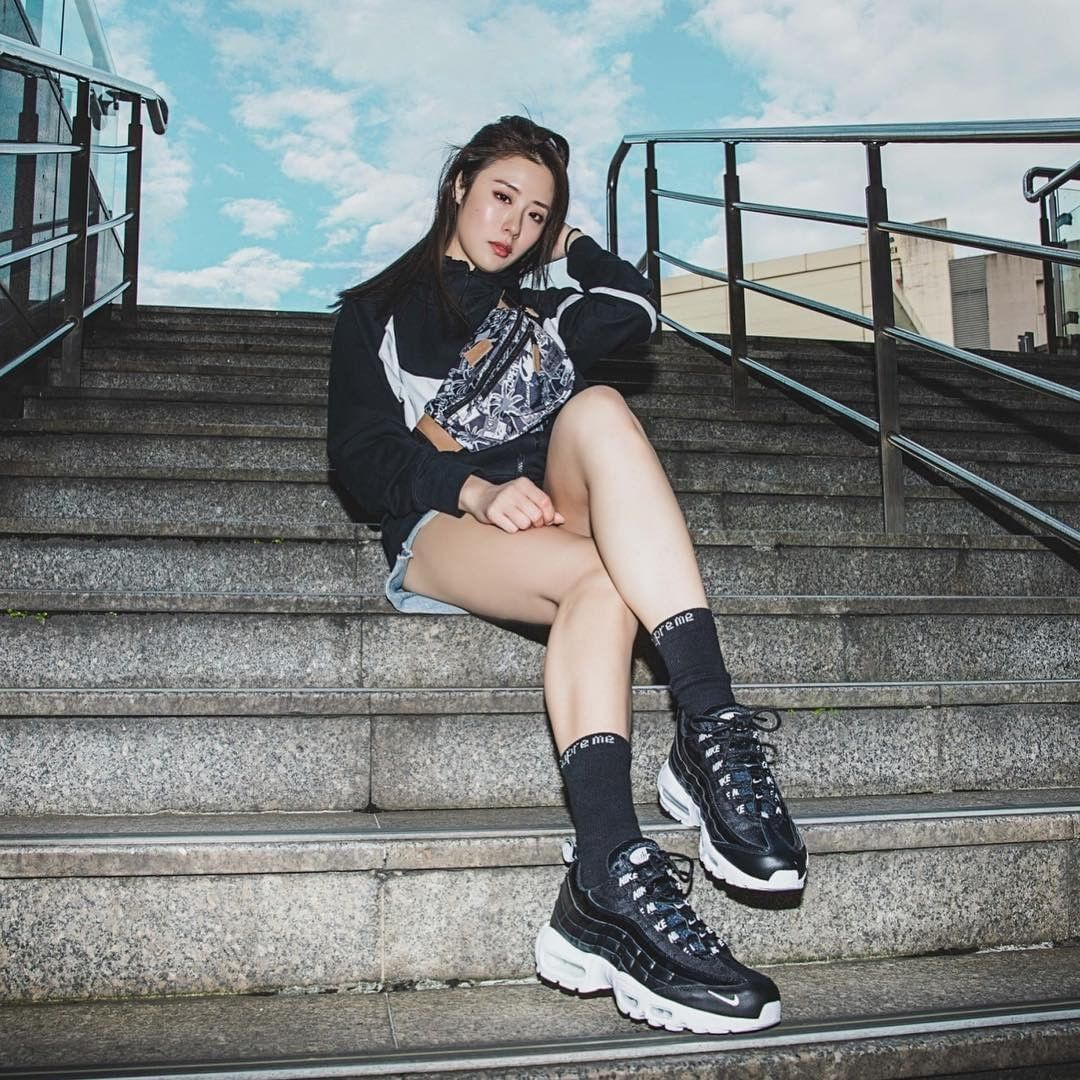
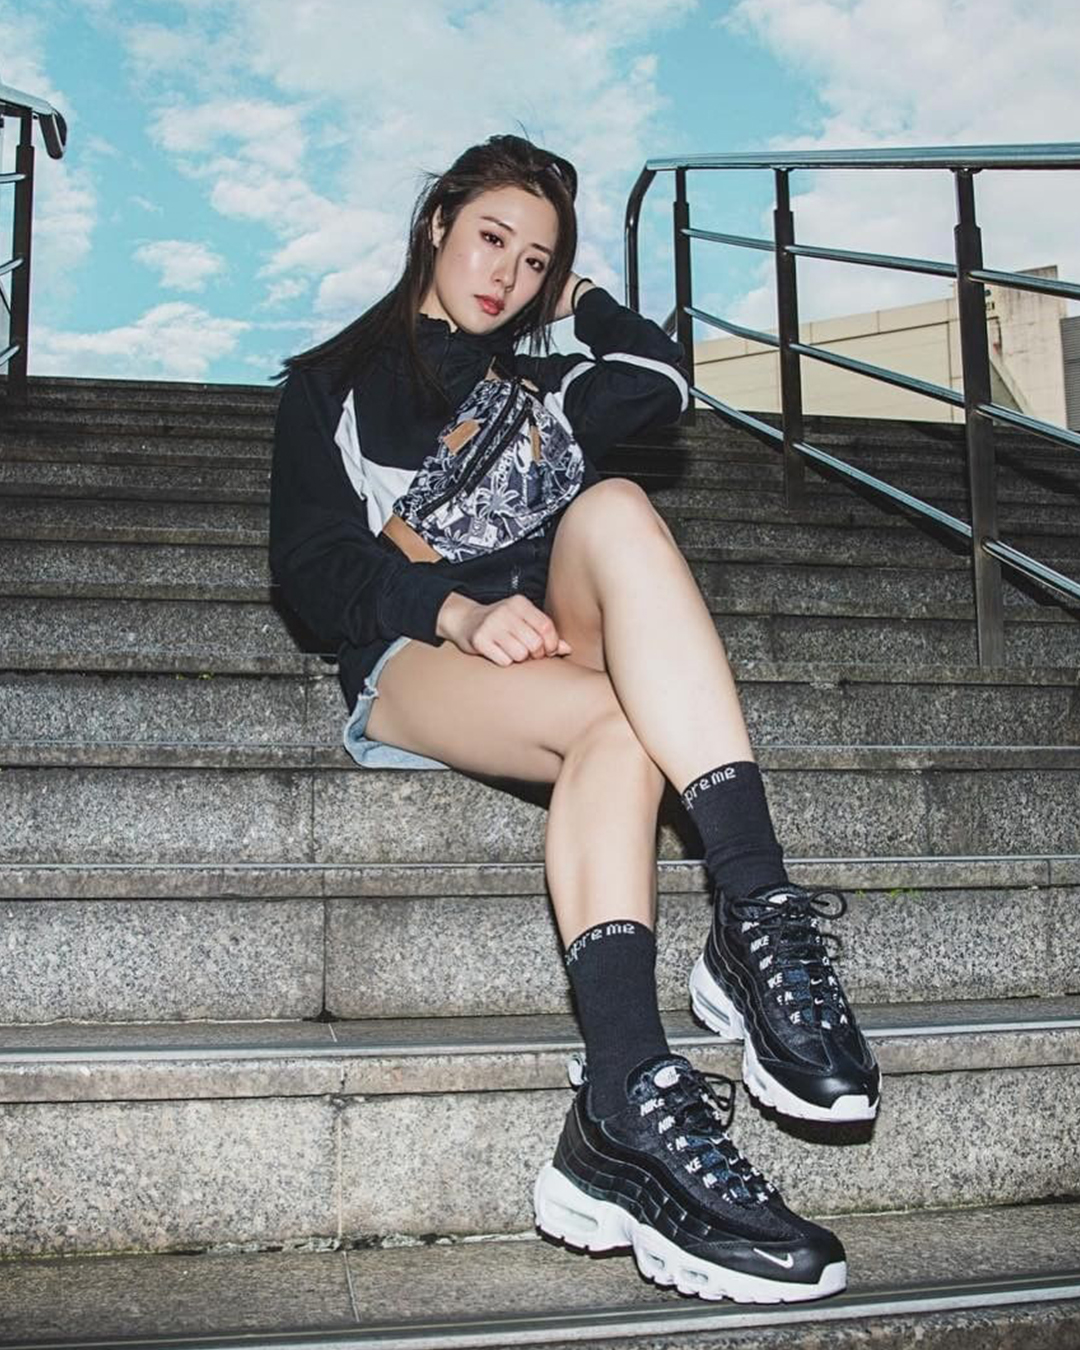
changed placehold pictures to final pictures. Added bootstrap img-fluid class in HTML. Added bootstrap .img-fluid selector to CSS

diff --git a/pages/women.html b/pages/women.html
@@ -77,7 +77,7 @@
 
 						<div class="col-12 col-sm-12 col-md-12 col-lg-6 col-xl-4 gallery-items" align="center">
 							<div class="card" style="width: 18rem;">
-							  <img src="../images/gallery_alpaca.jpg" class="card-img-top" alt="...">
+							  <img src="../images/Women_1.jpg" class="card-img-top img-fluid" alt="...">
 								<div class="card-body">
 								    <h5 class="card-title">Card title</h5>
 								    <p class="card-text">Some quick example text to build on the card title and make up the bulk of the card's content.</p>
@@ -89,7 +89,7 @@
 
 						<div class="col-12 col-sm-12 col-md-12 col-lg-6 col-xl-4 gallery-items" align="center">
 							<div class="card" style="width: 18rem;">
-							  <img src="../images/gallery_alpaca.jpg" class="card-img-top" alt="...">
+							  <img src="../images/Women_2.jpg" class="card-img-top img-fluid" alt="...">
 								<div class="card-body">
 								    <h5 class="card-title">Card title</h5>
 								    <p class="card-text">Some quick example text to build on the card title and make up the bulk of the card's content.</p>
@@ -101,7 +101,7 @@
 
 						<div class="col-12 col-sm-12 col-md-12 col-lg-6 col-xl-4 gallery-items" align="center">
 							<div class="card" style="width: 18rem;">
-							  <img src="../images/gallery_alpaca.jpg" class="card-img-top" alt="...">
+							  <img src="../images/Women_3.jpg" class="card-img-top img-fluid" alt="...">
 								<div class="card-body">
 								    <h5 class="card-title">Card title</h5>
 								    <p class="card-text">Some quick example text to build on the card title and make up the bulk of the card's content.</p>
@@ -113,7 +113,7 @@
 
 						<div class="col-12 col-sm-12 col-md-12 col-lg-6 col-xl-4 gallery-items" align="center">
 							<div class="card" style="width: 18rem;">
-							  <img src="../images/gallery_alpaca.jpg" class="card-img-top" alt="...">
+							  <img src="../images/Women_4.jpg" class="card-img-top img-fluid" alt="...">
 								<div class="card-body">
 								    <h5 class="card-title">Card title</h5>
 								    <p class="card-text">Some quick example text to build on the card title and make up the bulk of the card's content.</p>
@@ -125,7 +125,7 @@
 
 						<div class="col-12 col-sm-12 col-md-12 col-lg-6 col-xl-4 gallery-items" align="center">
 							<div class="card" style="width: 18rem;">
-							  <img src="../images/gallery_alpaca.jpg" class="card-img-top" alt="...">
+							  <img src="../images/Women_5.jpg" class="card-img-top img-fluid" alt="...">
 								<div class="card-body">
 								    <h5 class="card-title">Card title</h5>
 								    <p class="card-text">Some quick example text to build on the card title and make up the bulk of the card's content.</p>
@@ -137,7 +137,7 @@
 
 						<div class="col-12 col-sm-12 col-md-12 col-lg-6 col-xl-4 gallery-items" align="center">
 							<div class="card" style="width: 18rem;">
-							  <img src="../images/gallery_alpaca.jpg" class="card-img-top" alt="...">
+							  <img src="../images/Women_6.jpg" class="card-img-top img-fluid" alt="...">
 								<div class="card-body">
 								    <h5 class="card-title">Card title</h5>
 								    <p class="card-text">Some quick example text to build on the card title and make up the bulk of the card's content.</p>

diff --git a/pages/men.html b/pages/men.html
@@ -77,7 +77,7 @@
 
 			<div class="col-12 col-sm-12 col-md-12 col-lg-6 col-xl-4 gallery-items" align="center">
 				<div class="card" style="width: 18rem;">
-				  <img src="../images/gallery_alpaca.jpg" class="card-img-top" alt="...">
+				  <img src="../images/men_1.jpg" class="card-img-top img-fluid" alt="...">
 					<div class="card-body">
 					    <h5 class="card-title">Card title</h5>
 					    <p class="card-text">Some quick example text to build on the card title and make up the bulk of the card's content.</p>
@@ -87,7 +87,7 @@
 
 			<div class="col-12 col-sm-12 col-md-12 col-lg-6 col-xl-4 gallery-items" align="center">
 				<div class="card" style="width: 18rem;">
-				  <img src="../images/gallery_alpaca.jpg" class="card-img-top" alt="...">
+				  <img src="../images/men_2.jpg" class="card-img-top img-fluid" alt="...">
 				 	<div class="card-body">
 					    <h5 class="card-title">Card title</h5>
 					    <p class="card-text">Some quick example text to build on the card title and make up the bulk of the card's content.</p>
@@ -98,7 +98,7 @@
 
 			<div class="col-12 col-sm-12 col-md-12 col-lg-6 col-xl-4 gallery-items odd-item" align="center">
 				<div class="card" style="width: 18rem;">
-				  <img src="../images/gallery_alpaca.jpg" class="card-img-top" alt="...">
+				  <img src="../images/men_3.jpg" class="card-img-top img-fluid" alt="...">
 				 	<div class="card-body">
 					    <h5 class="card-title">Card title</h5>
 					    <p class="card-text">Some quick example text to build on the card title and make up the bulk of the card's content.</p>
@@ -109,7 +109,7 @@
 
 			<div class="col-12 col-sm-12 col-md-12 col-lg-6 col-xl-4 gallery-items odd-item" align="center">
 				<div class="card" style="width: 18rem;">
-				  <img src="../images/gallery_alpaca.jpg" class="card-img-top" alt="...">
+				  <img src="../images/men_4.jpg" class="card-img-top img-fluid" alt="...">
 				 	<div class="card-body">
 					    <h5 class="card-title">Card title</h5>
 					    <p class="card-text">Some quick example text to build on the card title and make up the bulk of the card's content.</p>
@@ -119,7 +119,7 @@
 
 			<div class="col-12 col-sm-12 col-md-12 col-lg-6 col-xl-4 gallery-items odd-item" align="center">
 				<div class="card" style="width: 18rem;">
-				  <img src="../images/gallery_alpaca.jpg" class="card-img-top" alt="...">
+				  <img src="../images/men_5.jpg" class="card-img-top img-fluid" alt="...">
 				 	<div class="card-body">
 					    <h5 class="card-title">Card title</h5>
 					    <p class="card-text">Some quick example text to build on the card title and make up the bulk of the card's content.</p>
@@ -129,7 +129,7 @@
 
 			<div class="col-12 col-sm-12 col-md-12 col-lg-6 col-xl-4 gallery-items odd-item" align="center">
 				<div class="card" style="width: 18rem;">
-				  <img src="../images/gallery_alpaca.jpg" class="card-img-top" alt="...">
+				  <img src="../images/men_6.jpg" class="card-img-top img-fluid" alt="...">
 				 	<div class="card-body">
 					    <h5 class="card-title">Card title</h5>
 					    <p class="card-text">Some quick example text to build on the card title and make up the bulk of the card's content.</p>

diff --git a/css/styles_placeholder.css b/css/styles_placeholder.css
@@ -110,7 +110,7 @@ header .nav-link {
 
 #lookofday-img {
 
-	background-image: url(../images/fashion_alpaca.jpg);
+	background-image: url("../images/LookOfTheDay.jpg");
 	background-size: cover;
 	margin: 100px;
 	max-width: 600px;
@@ -250,6 +250,11 @@ main { /* USED FOR ALL MAIN SECTIONS */
 .general-content img {
 	margin: 10px;
 }
+
+.img-fluid {
+max-width: 100%; 
+height: auto; 
+} 
 
 /* GOOGLE MAPS EMBED */
 
